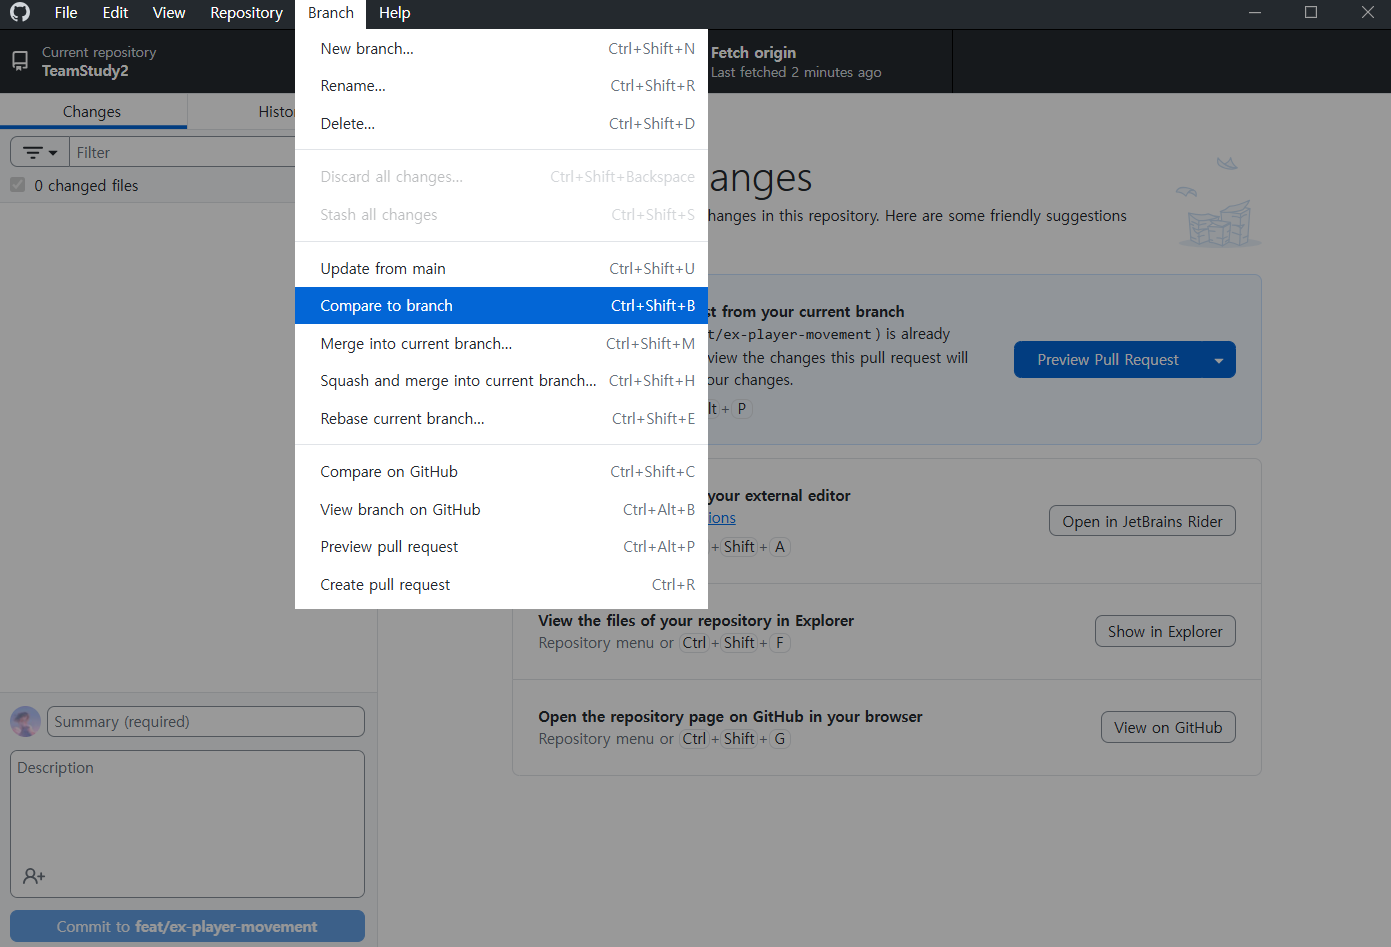
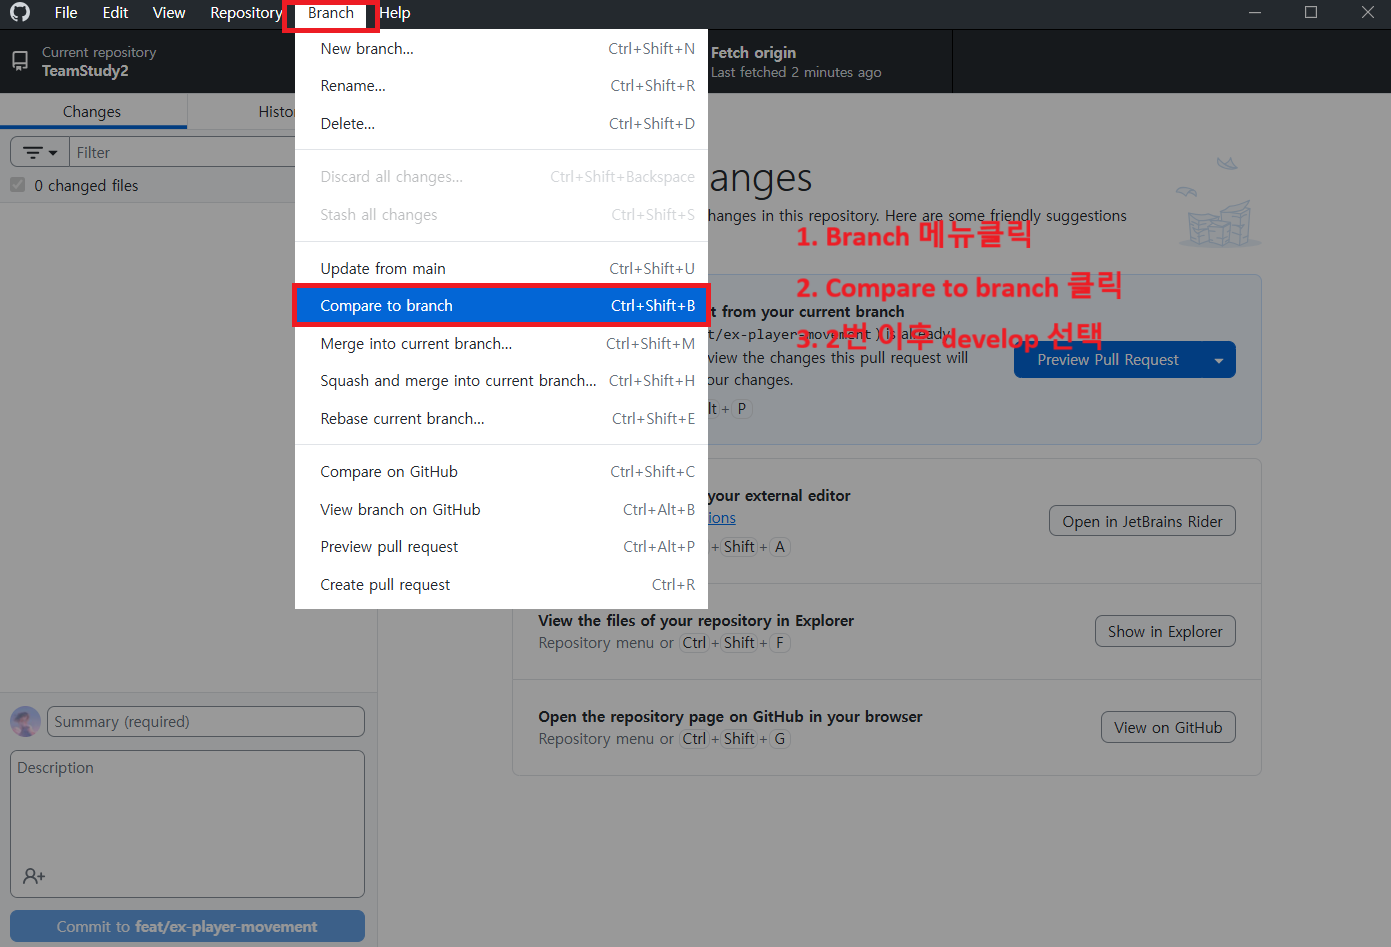
temp

diff --git a/깃을 사용해 봅시다.md b/깃을 사용해 봅시다.md
@@ -130,3 +130,6 @@
 
 
 ### Pull Request(내 브랜치를 develop으로)
+내 브랜치의 작업 내용을 develop에 적용시키는 과정입니다. <U>제일</U> 중요합니다. 
+1. 마무리를 위해 commit을 비우고 ```Fetch origin```으로 내 브랜치 local과 origin을 최신화 합니다.
+2. 위 Pull Develop
